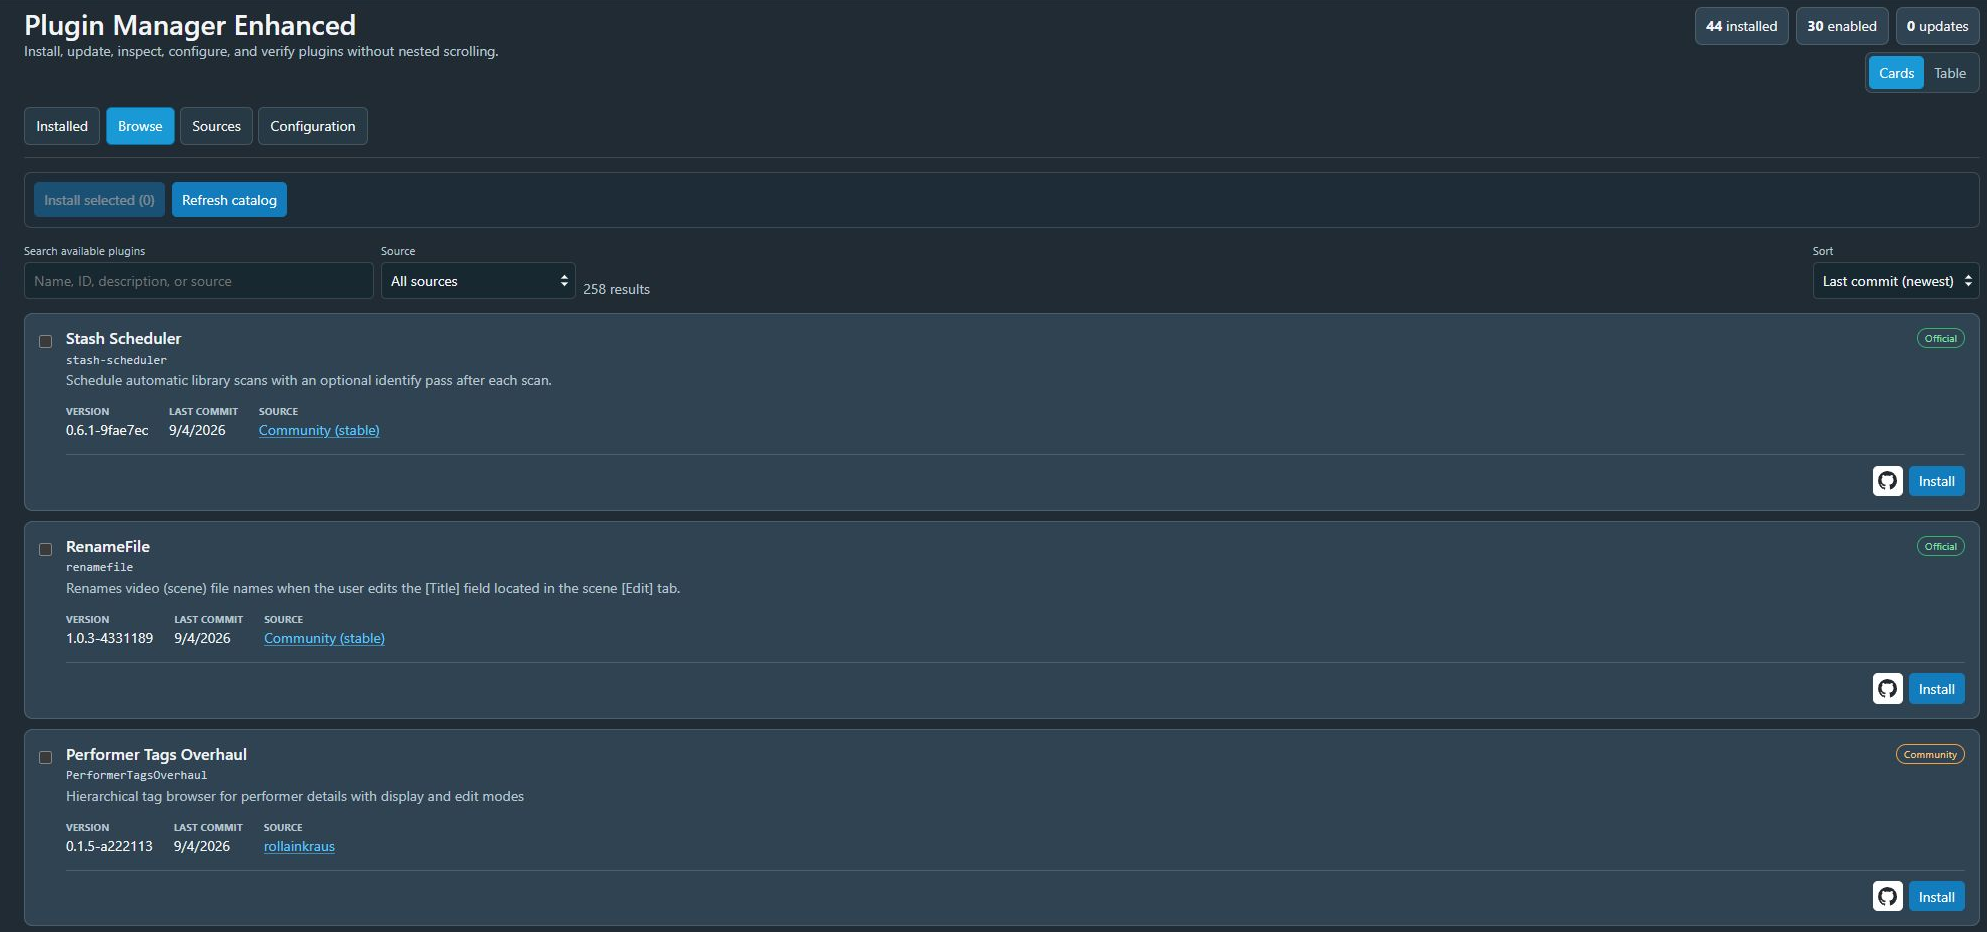
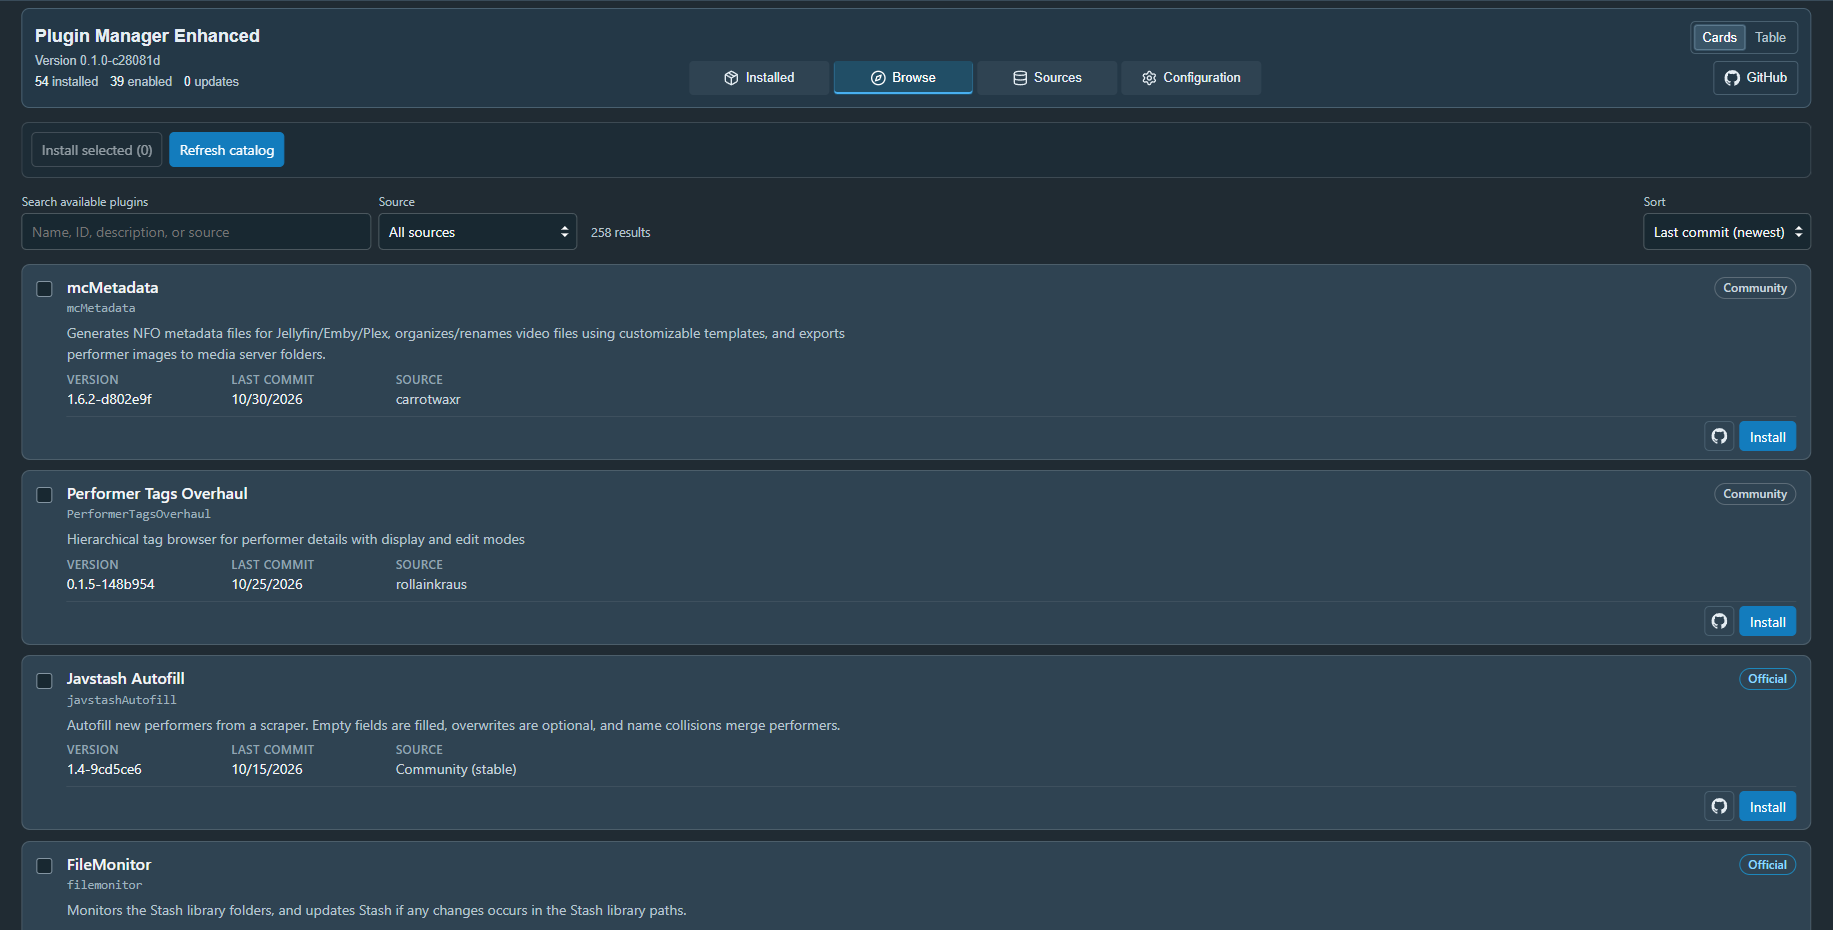
docs: refresh README screenshots and features
The README still showed the September UI and described the old
collapsible Configuration page with expand/collapse all. All six
screenshots are recaptured from the polished UI with the same viewport
and sort as before (and are a fifth of the old file size), the README
adds the two-pane Configuration screenshot, and the feature list now
covers the Configuration page, pinned table actions and the shared
action order.

Changed region(s): [[0.0, 0.0, 1.0, 1.0], [0.3732, 0.0624, 0.7152, 0.1247], [0.8396, 0.0, 1.0, 0.1247]]

diff --git a/docs/images/README.md b/docs/images/README.md
@@ -1,20 +1,11 @@
 # Plugin screenshots
 
-Captured from the live Plugin Manager Enhanced interface on September 13, 2026.
-Images are cropped to the plugin panel. Counts, versions, dates, and settings
-reflect that installation at capture time.
+Captured from the live Plugin Manager Enhanced interface on November 4, 2026, after the UI council polish pass ([council notes](../council-2026-11-03.md)). Counts, versions, dates and settings reflect that installation at capture time. Each displayed version identifies the build captured before the documentation commit.
 
-The remaining original images are 1987 pixels wide, cropped without resizing from a desktop
-full-page capture and encoded as PNG. The browser capture source is JPEG;
-PNG encoding avoids further lossy compression but does not remove source
-compression artifacts.
+All images come from a 2200 × 1100 browser viewport and are cropped to the plugin panel (Stash's own navigation is left out).
 
-`installed-table.png` and `browse-table.png` are the refreshed README screenshots,
-shown in that order. Both use Table layout sorted by **Last commit (newest)**.
-Each is 1278 × 500 pixels, half the previous Browse screenshot's height, and
-shows at least two complete plugin rows. Both were cropped from 2200 × 1100
-browser viewport captures and scaled equally to fit. Their displayed version
-identifies the build captured before the documentation commit.
+- `installed-table.png` and `browse-table.png` are the main README screenshots, shown in that order. Both use Table layout sorted by **Last commit (newest)** and are rendered at 1278 × 500 so they show the header, toolbar and at least four complete plugin rows.
+- `installed.png`, `browse.png`, `sources.png` and `configuration.png` are 1833 pixels wide, unscaled. Installed and Browse use Cards layout sorted by **Last commit (newest)**.
 
 Copy these image references into the repository's root README as needed:
 
@@ -29,8 +20,7 @@ Copy these image references into the repository's root README as needed:
 
 ![Plugin sources with health and package counts](docs/images/sources.png)
 
-![Search and expand plugin configuration settings](docs/images/configuration.png)
+![Configuration: a searchable plugin list beside the selected plugin's settings](docs/images/configuration.png)
 ```
 
-The configuration example shows VideoScrollWheel with its existing settings;
-no values were changed or saved for the capture.
+The configuration example shows VideoScrollWheel with its existing settings; no values were changed or saved for the capture.

diff --git a/README.md b/README.md
@@ -6,6 +6,8 @@ A client-side Stash UI plugin that enhances **Settings → Plugins** in place wi
 
 ![Browse available plugins in Table view, sorted by Last commit (newest)](docs/images/browse-table.png)
 
+![Configuration: a searchable plugin list beside the selected plugin's settings](docs/images/configuration.png)
+
 ## Installation
 
 1. Open **Settings → Plugins** in Stash.
@@ -45,7 +47,9 @@ Compared with Stash's stock Plugins page, the enhanced interface adds:
 
 - Separate **Installed**, **Browse**, **Sources**, and **Configuration** views
 - Browse renders 50 packages initially with progressive **Load more** controls
-- Responsive, wider Cards and Table layouts with full plugin descriptions
+- Responsive, wider Cards and Table layouts with full plugin descriptions, from phone width to wide desktops
+- Wide tables keep a readable minimum width and scroll inside their frame, with the Actions column pinned to the right edge
+- The same action order in every view: settings, delete, update, GitHub, then the enable switch on the right edge
 - Search by name, ID, description, version, and source
 - Search updates after a 250 ms typing pause, preserving the search field and cursor during typing and held Backspace
 - Per-plugin last-commit dates with name, newest-commit, or oldest-commit sorting
@@ -57,7 +61,7 @@ Compared with Stash's stock Plugins page, the enhanced interface adds:
 - Source health, package counts, trust labels, last-check time, and repository-root GitHub links
 - Add, edit, and delete package sources directly from the Sources view
 - Installed and Browse source labels link to stable, URL-addressable cards in **Sources**, including refresh and browser-history restoration
-- Collapsible plugin configuration page with expand/collapse all
+- Two-pane **Configuration** page: a searchable plugin list (Enabled, Disabled or All; sorted by name) beside the selected plugin's settings, with links to its repository and its Installed entry
 - Explicit hook names and trigger events
 - Manifest-derived capability summaries
 - Accessible selection labels and contextual search labels
